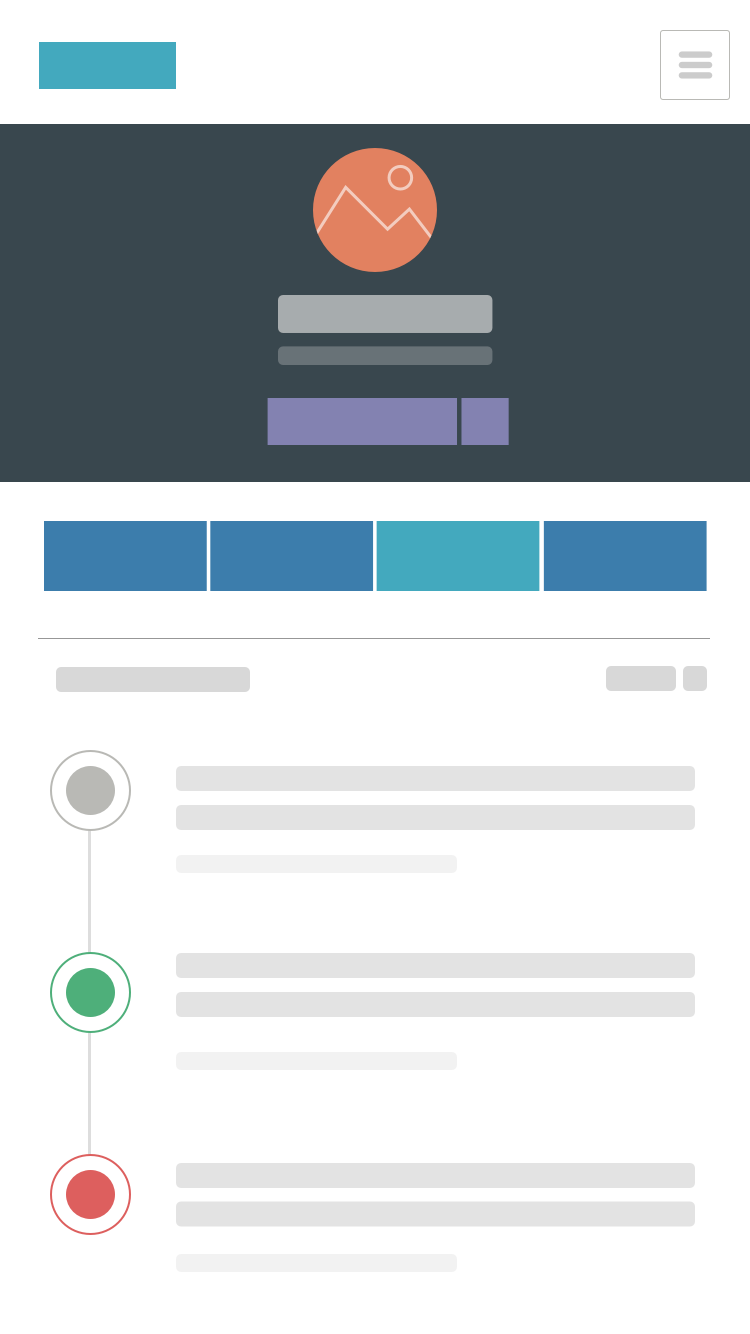
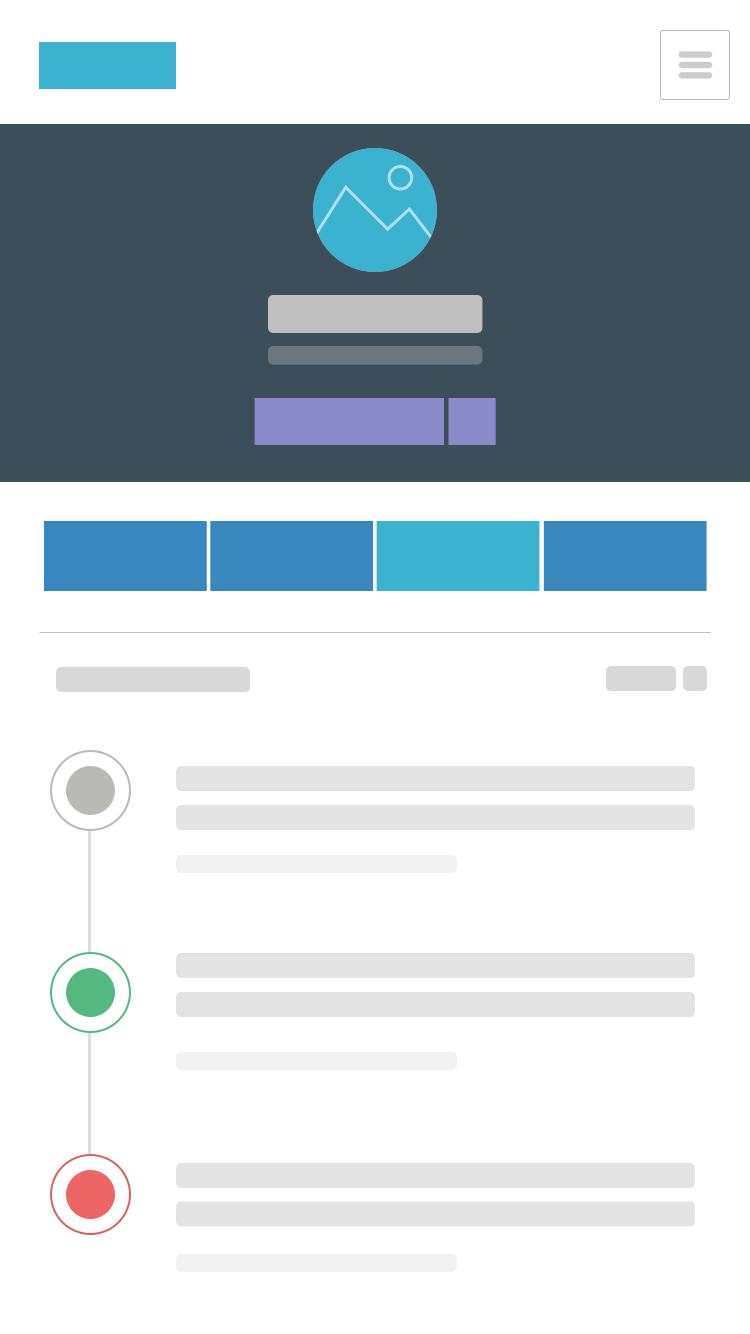
app images

Changed region(s): [[0.3373, 0.2151, 0.7053, 0.3381], [0.3987, 0.0922, 0.5827, 0.2151]]

diff --git a/docs/landing.html b/docs/landing.html
@@ -72,7 +72,7 @@
       </header>
 
       <figure id='cb-product-tour' class='cb-product-mockup contain'>
-        <img src='img/app-sample-fill-denim.png' alt='Preview image'>
+        <img src='img/app-sample.png' alt='Preview image'>
         <ul class='cb-points-container'>
           <li class='cb-single-point'>
             <a class='cb-img-replace' href='#fakelink'>More info</a>
@@ -165,6 +165,12 @@
 
   <section class='row15 fill-light'>
   </section>
+
+  <div class='col-sm-12 clearfix axiom'>
+    <div class='col-sm-4 fill-turquoise row10 laptop'></div>
+    <div class='col-sm-4 fill-purple row10 tablet'></div>
+    <div class='col-sm-4 fill-blue row10 phone'></div>
+  </div>
 
   <section class='row15 fill-white'>
   </section>

diff --git a/docs/css/site.css b/docs/css/site.css
@@ -71,12 +71,29 @@ body { padding-top: 60px; }
   background-size: 800px 533px;
 }
 
+/* Landing page
+------------------------------------------------------- */
+
 .landing { padding-top: 0; }
 .landing .logo { color: #fff; }
 
 .dark .btn-inverse {
   background: #fff;
   color: #3BB2D0;  
+}
+
+.axiom .row10 { 
+  background-position: center center;
+  background-repeat: no-repeat;
+  background-size: 80%;
+}
+
+.axiom .laptop { background-image: url('/img/axiom-laptop.png'); }
+.axiom .phone  { background-image: url('/img/axiom-laptop.png'); }
+.axiom .tablet { 
+  background-image: url('/img/axiom-tablet.png'); 
+  background-size: 60%;
+  background-position: center 40px;
 }
 
 /* Responsive styles

diff --git a/docs/css/landing.css b/docs/css/landing.css
@@ -1,4 +1,3 @@
-
 /* Landing Figure Styles
 http://codyhouse.co/gem/3d-animated-mockup/
 ------------------------------------------------------- */
